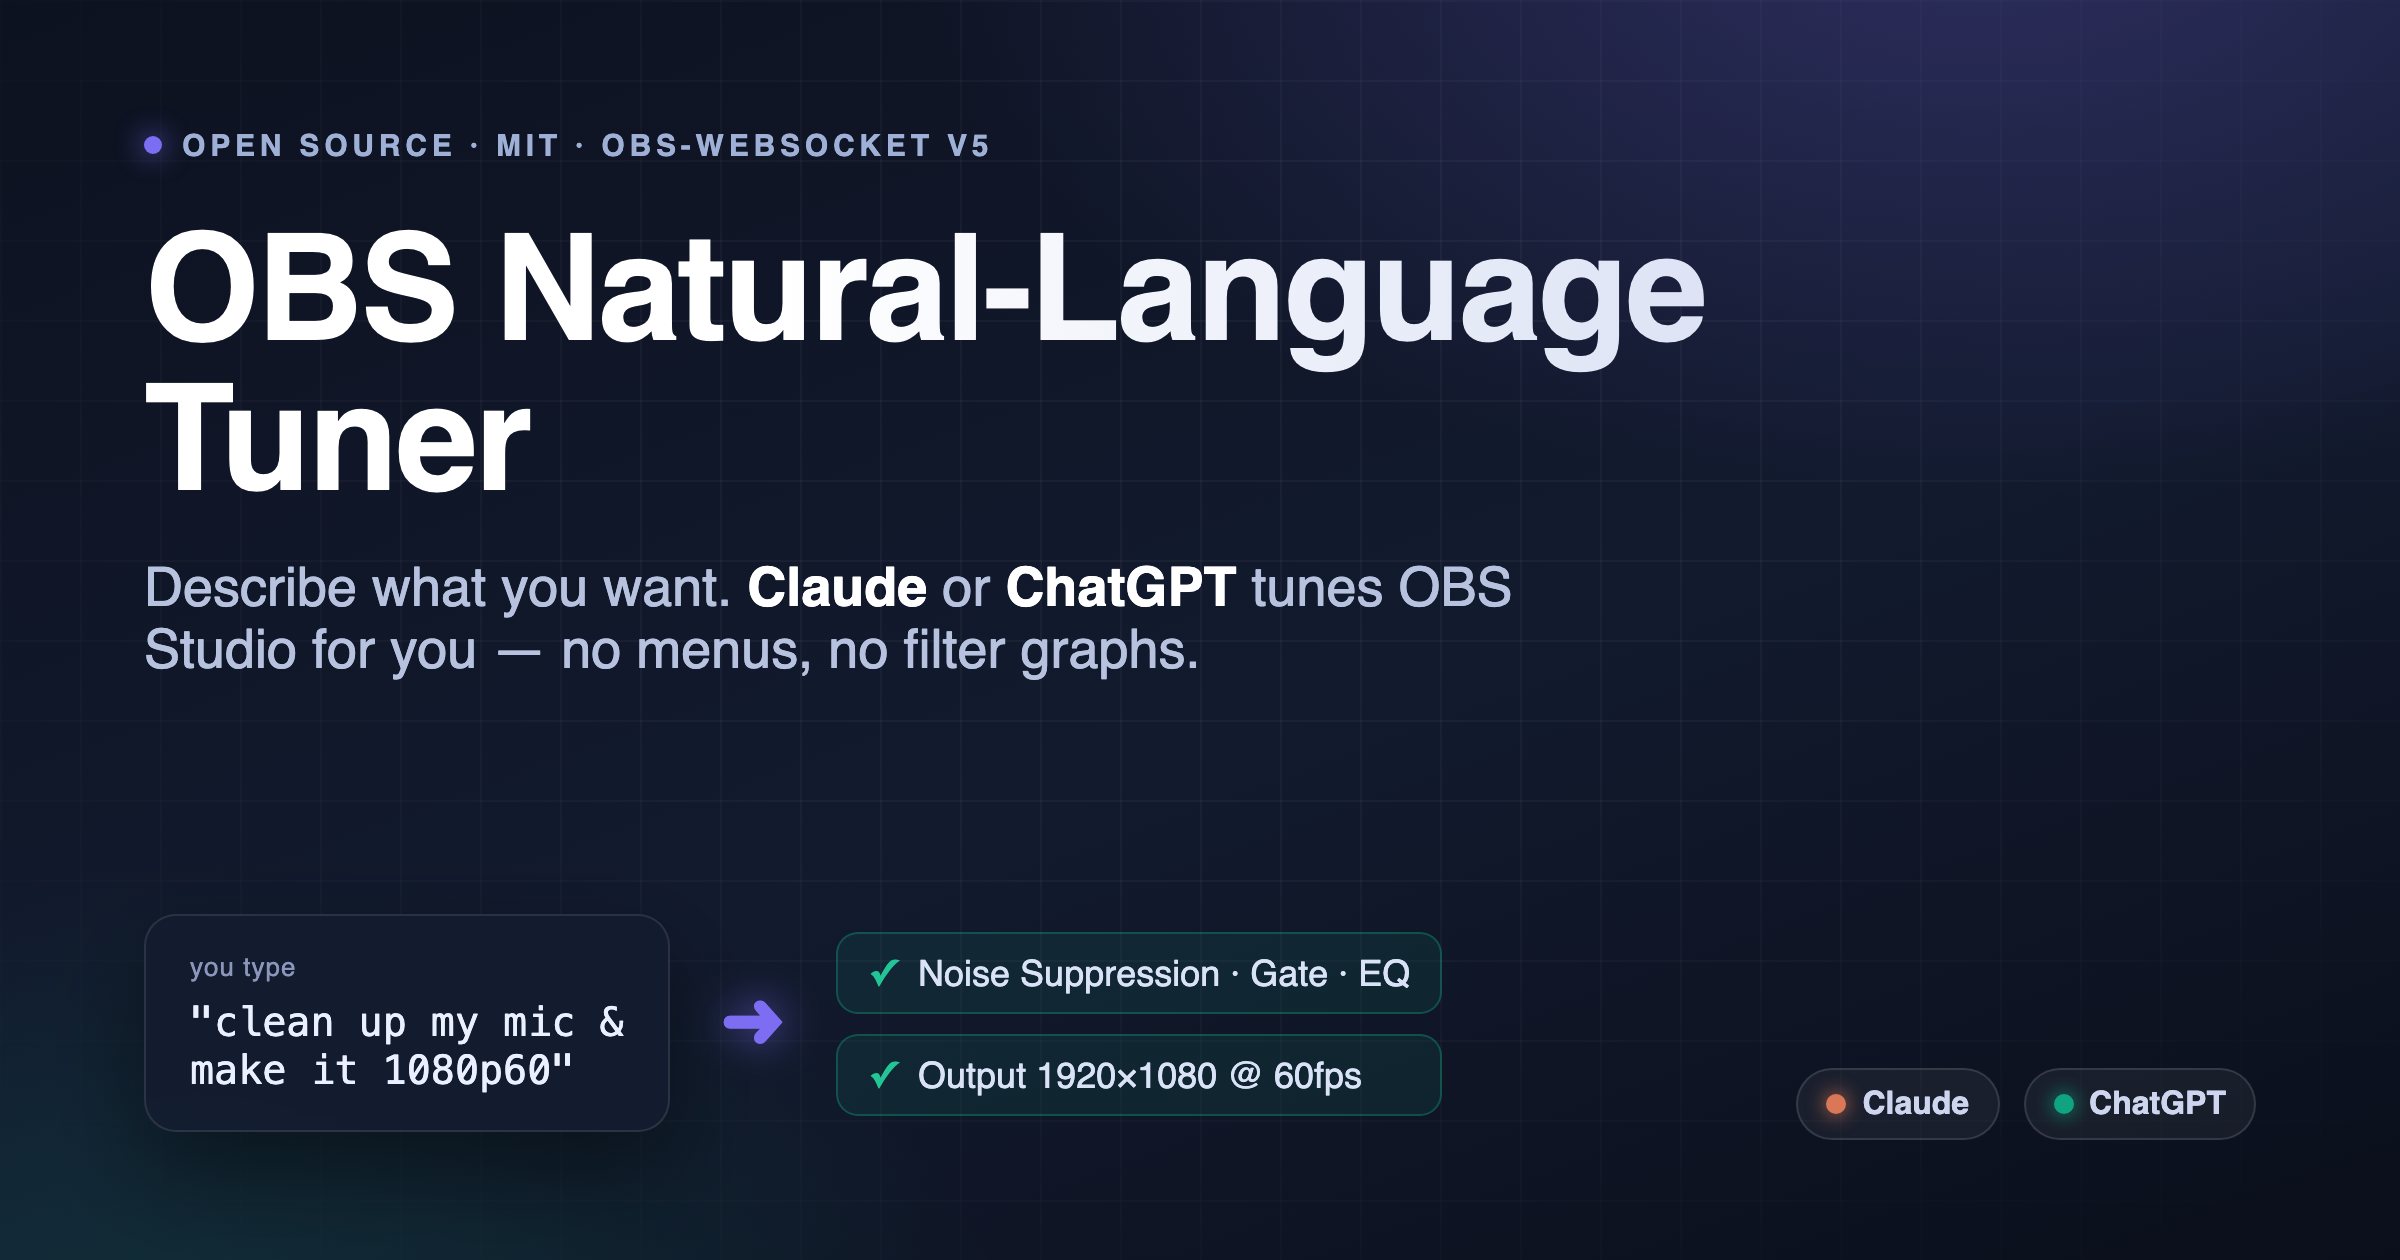
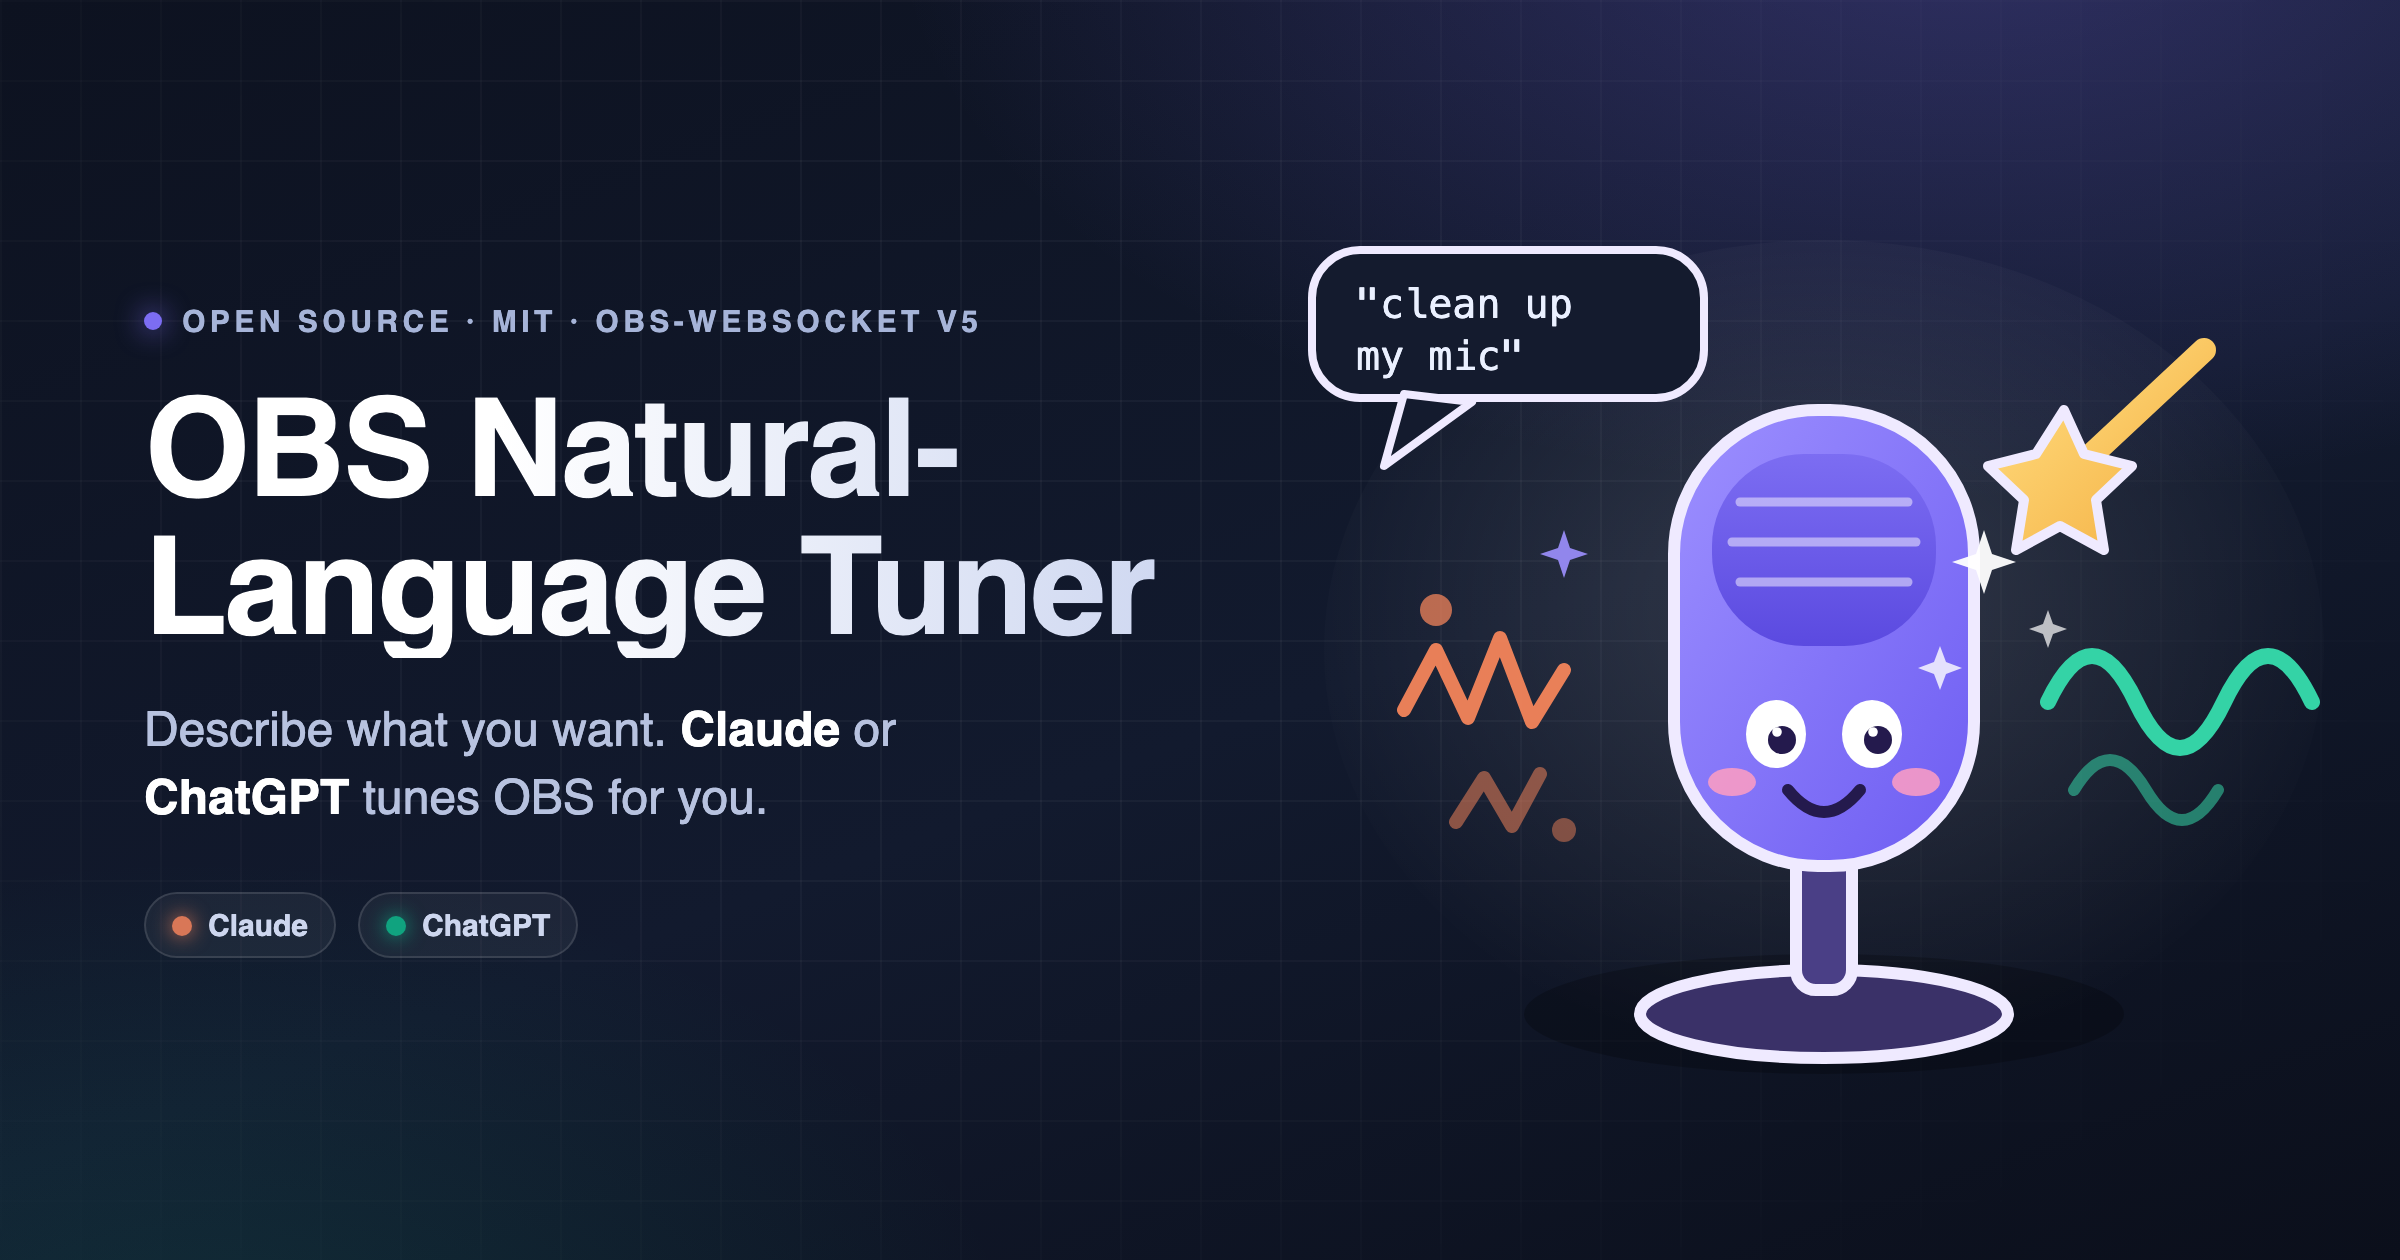
Make header image cartoon-style (friendly mic character)
Redraw assets/header.html as an illustrated scene — a smiley microphone
"sticker" character with a speech bubble, an AI sparkle wand, and noise
resolving into a clean waveform — and re-render header.png.

diff --git a/assets/html/header.html b/assets/html/header.html
@@ -8,93 +8,149 @@
   body {
     font-family: -apple-system, "Segoe UI", "Inter", Roboto, sans-serif;
     background:
-      radial-gradient(900px 500px at 82% -8%, rgba(124,109,242,.28), transparent 60%),
-      radial-gradient(700px 460px at 8% 112%, rgba(16,163,127,.18), transparent 60%),
+      radial-gradient(900px 500px at 82% -8%, rgba(124,109,242,.30), transparent 60%),
+      radial-gradient(700px 460px at 8% 112%, rgba(16,163,127,.16), transparent 60%),
       linear-gradient(160deg, #0d1220 0%, #121a2e 55%, #0b0f1b 100%);
-    color: #eef2fb;
-    overflow: hidden;
-    position: relative;
+    color: #eef2fb; overflow: hidden; position: relative;
   }
-  /* faint grid */
   body::before {
     content: ""; position: absolute; inset: 0;
     background-image:
       linear-gradient(rgba(255,255,255,.035) 1px, transparent 1px),
       linear-gradient(90deg, rgba(255,255,255,.035) 1px, transparent 1px);
     background-size: 40px 40px;
-    mask-image: radial-gradient(1000px 600px at 50% 40%, #000 30%, transparent 80%);
+    mask-image: radial-gradient(1000px 600px at 40% 40%, #000 30%, transparent 80%);
   }
-  .wrap { position: relative; height: 100%; padding: 64px 72px; display: flex; flex-direction: column; }
+  .grid { position: relative; height: 100%; display: grid; grid-template-columns: 1.04fr .96fr; align-items: center; }
+  .left { padding: 0 0 0 72px; }
   .kicker {
     display: inline-flex; align-items: center; gap: 10px;
-    font-size: 15px; font-weight: 700; letter-spacing: .16em; text-transform: uppercase;
-    color: #9fb0d6;
+    font-size: 15px; font-weight: 700; letter-spacing: .15em; text-transform: uppercase; color: #a6b4d8;
   }
   .kicker .dot { width: 9px; height: 9px; border-radius: 50%; background: #7c6df2; box-shadow: 0 0 14px #7c6df2; }
   h1 {
-    margin-top: 26px;
-    font-size: 74px; line-height: 1.02; font-weight: 800; letter-spacing: -.02em;
-    background: linear-gradient(92deg, #ffffff 30%, #c9d3ef 100%);
+    margin-top: 22px; font-size: 68px; line-height: 1.02; font-weight: 800; letter-spacing: -.02em;
+    background: linear-gradient(92deg, #ffffff 32%, #c9d3ef 100%);
     -webkit-background-clip: text; background-clip: text; color: transparent;
   }
-  .sub { margin-top: 20px; font-size: 27px; color: #b7c2df; font-weight: 500; max-width: 720px; }
+  .sub { margin-top: 20px; font-size: 24px; color: #b7c2df; font-weight: 500; max-width: 460px; line-height: 1.4; }
   .sub b { color: #fff; font-weight: 700; }
-
-  .demo { margin-top: auto; display: flex; align-items: center; gap: 26px; }
-  .bubble {
-    background: rgba(20,27,46,.82); border: 1px solid rgba(255,255,255,.10);
-    border-radius: 16px; padding: 18px 22px; box-shadow: 0 20px 50px rgba(0,0,0,.45);
-    backdrop-filter: blur(4px); flex: 0 0 auto;
-  }
-  .bubble .who { font-size: 13px; color: #8a97ba; margin-bottom: 8px; letter-spacing: .04em; }
-  .bubble .msg { font-family: "SF Mono", Menlo, monospace; font-size: 20px; color: #eaf0ff; }
-  .arrow { font-size: 34px; color: #7c6df2; filter: drop-shadow(0 0 10px rgba(124,109,242,.7)); }
-  .applied { display: flex; flex-direction: column; gap: 10px; }
-  .chip {
-    display: flex; align-items: center; gap: 11px; font-size: 18px; color: #d9e2f7;
-    background: rgba(16,163,127,.10); border: 1px solid rgba(16,163,127,.35);
-    border-radius: 11px; padding: 9px 15px;
-  }
-  .chip .tick { color: #23c495; font-weight: 800; }
-
-  .foot {
-    position: absolute; right: 72px; bottom: 60px;
-    display: flex; align-items: center; gap: 18px;
-  }
-  .providers { display: flex; align-items: center; gap: 12px; }
+  .pills { margin-top: 30px; display: flex; align-items: center; gap: 11px; }
   .pill {
-    display: inline-flex; align-items: center; gap: 8px;
-    font-size: 16px; font-weight: 600; color: #cdd6ee;
-    background: rgba(255,255,255,.05); border: 1px solid rgba(255,255,255,.12);
-    padding: 8px 14px; border-radius: 999px;
+    display: inline-flex; align-items: center; gap: 8px; font-size: 15px; font-weight: 600; color: #cdd6ee;
+    background: rgba(255,255,255,.05); border: 1px solid rgba(255,255,255,.12); padding: 7px 13px; border-radius: 999px;
   }
   .pill .d { width: 10px; height: 10px; border-radius: 50%; }
-  .repo { font-family: "SF Mono", Menlo, monospace; font-size: 15px; color: #7f8db1; }
+  .art { position: relative; height: 100%; display: flex; align-items: center; justify-content: center; }
+  svg { width: 560px; height: 560px; overflow: visible; }
 </style>
 </head>
 <body>
-  <div class="wrap">
-    <span class="kicker"><span class="dot"></span>Open source · MIT · obs-websocket v5</span>
-    <h1>OBS Natural-Language<br>Tuner</h1>
-    <p class="sub">Describe what you want. <b>Claude</b> or <b>ChatGPT</b> tunes OBS Studio for you — no menus, no filter graphs.</p>
-
-    <div class="demo">
-      <div class="bubble">
-        <div class="who">you type</div>
-        <div class="msg">"clean up my mic&nbsp;&amp;<br>make it 1080p60"</div>
-      </div>
-      <div class="arrow">➜</div>
-      <div class="applied">
-        <div class="chip"><span class="tick">✓</span> Noise&nbsp;Suppression · Gate · EQ</div>
-        <div class="chip"><span class="tick">✓</span> Output&nbsp;1920×1080 @ 60fps</div>
-      </div>
-    </div>
-
-    <div class="foot">
-      <div class="providers">
+  <div class="grid">
+    <div class="left">
+      <span class="kicker"><span class="dot"></span>Open source · MIT · obs-websocket v5</span>
+      <h1>OBS Natural-<br>Language Tuner</h1>
+      <p class="sub">Describe what you want. <b>Claude</b> or <b>ChatGPT</b> tunes OBS for you.</p>
+      <div class="pills">
         <span class="pill"><span class="d" style="background:#d97757;box-shadow:0 0 10px #d97757"></span>Claude</span>
         <span class="pill"><span class="d" style="background:#10a37f;box-shadow:0 0 10px #10a37f"></span>ChatGPT</span>
       </div>
+    </div>
+
+    <div class="art">
+      <svg viewBox="0 0 560 520" xmlns="http://www.w3.org/2000/svg">
+        <defs>
+          <linearGradient id="mic" x1="0" y1="0" x2="1" y2="1">
+            <stop offset="0" stop-color="#9d90ff"/>
+            <stop offset="1" stop-color="#6d5cf2"/>
+          </linearGradient>
+          <linearGradient id="micdark" x1="0" y1="0" x2="0" y2="1">
+            <stop offset="0" stop-color="#7c6df2"/>
+            <stop offset="1" stop-color="#5b4ae0"/>
+          </linearGradient>
+          <radialGradient id="spot" cx="50%" cy="45%" r="55%">
+            <stop offset="0" stop-color="#ffffff" stop-opacity=".14"/>
+            <stop offset="1" stop-color="#ffffff" stop-opacity="0"/>
+          </radialGradient>
+          <linearGradient id="wand" x1="0" y1="0" x2="1" y2="1">
+            <stop offset="0" stop-color="#ffd97a"/>
+            <stop offset="1" stop-color="#f5b64b"/>
+          </linearGradient>
+        </defs>
+
+        <!-- stage spotlight -->
+        <ellipse cx="280" cy="270" rx="250" ry="205" fill="url(#spot)"/>
+        <ellipse cx="280" cy="452" rx="150" ry="30" fill="#000" opacity=".22"/>
+
+        <!-- speech bubble -->
+        <g>
+          <rect x="24" y="70" width="196" height="74" rx="24" fill="#141b2e" stroke="#efeaff" stroke-width="4"/>
+          <path d="M70 142 L60 178 L104 146 Z" fill="#141b2e" stroke="#efeaff" stroke-width="4" stroke-linejoin="round"/>
+          <text x="46" y="104" font-family="'SF Mono',Menlo,monospace" font-size="20" fill="#eaf0ff">"clean up</text>
+          <text x="46" y="130" font-family="'SF Mono',Menlo,monospace" font-size="20" fill="#eaf0ff">my mic"</text>
+        </g>
+
+        <!-- ==== noise (before) : jagged, dissolving ==== -->
+        <g stroke="#ff8a5c" stroke-width="7" stroke-linecap="round" stroke-linejoin="round" fill="none">
+          <path d="M70 300 l16 -30 l16 34 l16 -40 l16 42 l16 -26" opacity=".9"/>
+          <path d="M96 356 l14 -22 l14 24 l14 -26" opacity=".5"/>
+        </g>
+        <circle cx="86" cy="250" r="8" fill="#ff8a5c" opacity=".7"/>
+        <circle cx="150" cy="360" r="6" fill="#ff8a5c" opacity=".45"/>
+
+        <!-- ==== clean wave (after) : smooth ==== -->
+        <path d="M392 296 q22 -46 44 0 q22 46 44 0 q22 -46 44 0" stroke="#34d3a6" stroke-width="8"
+              stroke-linecap="round" fill="none"/>
+        <path d="M405 340 q18 -30 36 0 q18 30 36 0" stroke="#34d3a6" stroke-width="6" stroke-linecap="round" fill="none" opacity=".55"/>
+
+        <!-- ==== microphone character ==== -->
+        <g stroke="#efeaff" stroke-width="6" stroke-linejoin="round">
+          <!-- base + stand -->
+          <ellipse cx="280" cy="452" rx="92" ry="22" fill="#3a3168"/>
+          <rect x="266" y="360" width="28" height="80" rx="10" fill="#4a3f86"/>
+          <!-- body -->
+          <rect x="205" y="150" width="150" height="228" rx="72" fill="url(#mic)"/>
+          <!-- grille panel -->
+          <rect x="224" y="172" width="112" height="96" rx="46" fill="url(#micdark)" stroke="none"/>
+        </g>
+        <!-- grille lines -->
+        <g stroke="#efeaff" stroke-width="4.5" stroke-linecap="round" opacity=".55">
+          <line x1="238" y1="196" x2="322" y2="196"/>
+          <line x1="234" y1="216" x2="326" y2="216"/>
+          <line x1="238" y1="236" x2="322" y2="236"/>
+        </g>
+        <!-- face -->
+        <g>
+          <ellipse cx="256" cy="312" rx="15" ry="17" fill="#fff"/>
+          <ellipse cx="304" cy="312" rx="15" ry="17" fill="#fff"/>
+          <circle cx="259" cy="315" r="7" fill="#241a4d"/>
+          <circle cx="307" cy="315" r="7" fill="#241a4d"/>
+          <circle cx="256.5" cy="311" r="2.4" fill="#fff"/>
+          <circle cx="304.5" cy="311" r="2.4" fill="#fff"/>
+          <!-- blush -->
+          <ellipse cx="234" cy="336" rx="12" ry="7" fill="#ff9ec2" opacity=".85"/>
+          <ellipse cx="326" cy="336" rx="12" ry="7" fill="#ff9ec2" opacity=".85"/>
+          <!-- smile -->
+          <path d="M262 340 q18 22 36 0" stroke="#241a4d" stroke-width="6" stroke-linecap="round" fill="none"/>
+        </g>
+
+        <!-- ==== AI sparkle wand ==== -->
+        <g stroke="#efeaff" stroke-width="5" stroke-linejoin="round" stroke-linecap="round">
+          <line x1="470" y1="120" x2="410" y2="176" stroke="url(#wand)" stroke-width="12"/>
+          <path d="M400 150 l10 22 l24 6 l-18 17 l4 25 l-22 -12 l-22 12 l4 -25 l-18 -17 l24 -6 z"
+                fill="url(#wand)"/>
+        </g>
+
+        <!-- sparkles -->
+        <g fill="#fff">
+          <path d="M360 210 l4 12 l12 4 l-12 4 l-4 12 l-4 -12 l-12 -4 l12 -4 z" opacity=".95"/>
+          <path d="M338 268 l3 8 l8 3 l-8 3 l-3 8 l-3 -8 l-8 -3 l8 -3 z" opacity=".8"/>
+          <path d="M392 250 l2.5 7 l7 2.5 l-7 2.5 l-2.5 7 l-2.5 -7 l-7 -2.5 l7 -2.5 z" opacity=".7"/>
+        </g>
+        <g fill="#9d90ff">
+          <path d="M150 210 l3 9 l9 3 l-9 3 l-3 9 l-3 -9 l-9 -3 l9 -3 z" opacity=".9"/>
+        </g>
+      </svg>
     </div>
   </div>
 </body>
